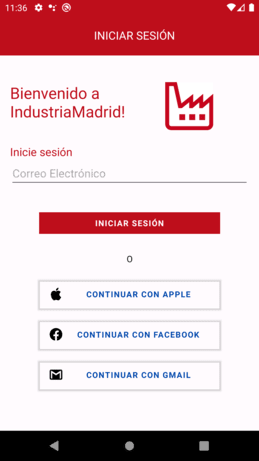
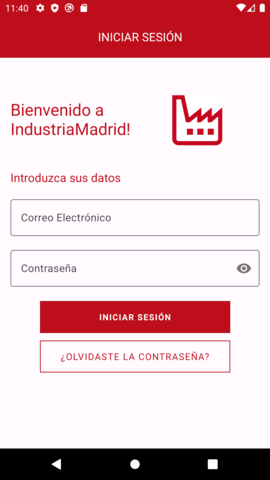
Read Me Register

diff --git a/README.md b/README.md
@@ -4,47 +4,72 @@
 [![Figma - Prototipo](img/figma.png)](https://www.figma.com/proto/0K4c3jnRqUEtKPQ18aWkgz/App-IndustriaMadrid?type=design&node-id=1214-1245&t=uYsVs1NcrupUYxVb-0&scaling=scale-down&page-id=1022%3A142)
 
 ## ESPAÑOL
-MadridIndustria fomenta el interés en el patrimonio industrial de la Comunidad de Madrid. Con su interfaz intuitiva, explora y accede a información detallada sobre cada patrimonio, encuentra sitios históricos en el mapa, marca tus descubrimientos favoritos y organízalos en tu lista personal. Los gestores de patrimonios industriales pueden actualizar y gestionar la información, compartiendo datos relevantes para enriquecer la experiencia del usuario. ¡Descubre, aprende y preserva la historia industrial de Madrid con MadridIndustria!
+MadridIndustria fomenta el interés en el patrimonio industrial de la  
+Comunidad de Madrid. Con su interfaz intuitiva, explora y accede  
+a información detallada sobre cada patrimonio, encuentra sitios históricos  
+en el mapa, marca tus descubrimientos favoritos y organízalos en tu  
+lista personal. Los gestores de patrimonios industriales pueden actualizar  
+y gestionar la información, compartiendo datos relevantes para enriquecer  
+la experiencia del usuario. ¡Descubre, aprende y preserva la historia  
+industrial de Madrid con MadridIndustria!.
 
 ### Ramas
-- **Index**: Rama responsable de MainActivity y sus respectivos.
+- **Register**: Contiene la funcionalidad de la configuración del usuario.
 
 ### Actividades
-- **MainActivity**: Punto de entrada para explorar patrimonios industriales.
-- **FirestoreDatabase**: Funciona como la base de datos central para almacenar información sobre patrimonios.
-- **FirestoreCallback**: Interfaz esencial que permite la comunicación entre MainActivity y FirestoreDatabase, facilitando la obtención y actualización de datos sobre patrimonios.
+- **Perfilactivity**: Aparece iniciar sesión y registrarse.
+- **LoginActivity**: Permite Aceder por correo, apple, facebook o el correo electronico que te registraste.
+- **RegisterActivity**: Permite a los usuarios registrarse con la opción de iniciar sesion o registrarte
+- **PasswordActivity**: Permite darte la opcion de enviarte la contraseña.
+
 
 ### Capturas
-![Imagen de Main Activity](img/main.png)
+![Hall](img/hall.png)
+![Login](img/login.png)
+![Register](img/register.png)
+![Password](img/password.png)
 
 ### Video Demostrativo
-[Video de Main Activity](video/main.webm)
+[Video General de la rama Register](video/login.webm)
 
 ### Estilo
-Hemos personalizado la apariencia de la aplicación usando estilos y temas definidos en `res/values/styles.xml`. Para más detalles, por favor revisa el código y comentarios en las actividades correspondientes.
+Se personalizo la apariencia de la aplicación usando estilos y temas definidos en `res/values/styles.xml`.
 
 ### Contribuyendo
 No dudes en contribuir a este proyecto creando solicitudes de extracción o informando problemas.
 
 ## ENGLISH
-MadridIndustria promotes interest in the industrial heritage of the Community of Madrid. With its intuitive interface, explore and access detailed information about each heritage site, locate historic sites on the map, mark your favorite discoveries, and organize them in your personal list. Industrial heritage managers can update and manage information, sharing relevant data to enhance the user experience. Discover, learn, and preserve the industrial history of Madrid with MadridIndustria!
+MadridIndustria promotes interest in the industrial heritage of the Community of  
+Madrid. With its intuitive interface, explore and access detailed  
+information about each heritage site, locate historic sites on the map,  
+mark your favorite discoveries, and organize them in your personal list.  
+Industrial heritage managers can update and manage information, sharing  
+relevant data to enhance the user experience. Discover, learn, and preserve  
+the industrial history of Madrid with MadridIndustria!
 
 ### Branches
-- **Index**: Branch responsible for MainActivity and its related components.
+- **Register**: Contains the Hall functionality of starting or registering,
+Login allows you to log in in different ways, starting with your email
+and by chance you forgot the password, it goes to your email or else to the Hall.
 
 ### Activities
-- **MainActivity**: Entry point for exploring industrial heritage.
-- **FirestoreDatabase**: Functions as the central database for storing information about heritage sites.
-- **FirestoreCallback**: Essential interface facilitating communication between MainActivity and FirestoreDatabase, enabling data retrieval and updates for heritage sites.
+- **HallActivity**: Displays login and register options.
+- **LoginActivity**: Allows logging in through email, Apple, Facebook, or the email used for registration.
+- **RegisterActivity**: Allows users to register with the option to log in or register.
+- **PasswordActivity**: Provides the option to send you the password
 
-### Screenshots
-![Main Activity Image](img/main.png)
+### Captures
+![Hall](img/hall.png)
+![Login](img/login.png)
+![Register](img/register.png)
+![Password](img/password.png)
 
-### Demo Video
-[Main Activity Video](video/main.webm)
+### Demonstration video
+[General Video of the Registration branch](video/login.webm)
 
 ### Style
-We've customized the appearance of the application using styles and themes defined in `res/values/styles.xml`. For more details, please review the code and comments in the corresponding activities.
+We've customized the appearance of the application using styles and themes defined in `res/values/styles.xml`.  
+For more details, please review the code and comments in the corresponding activities.
 
 ### Contributing
 Feel free to contribute to this project by creating pull requests or reporting issues.
